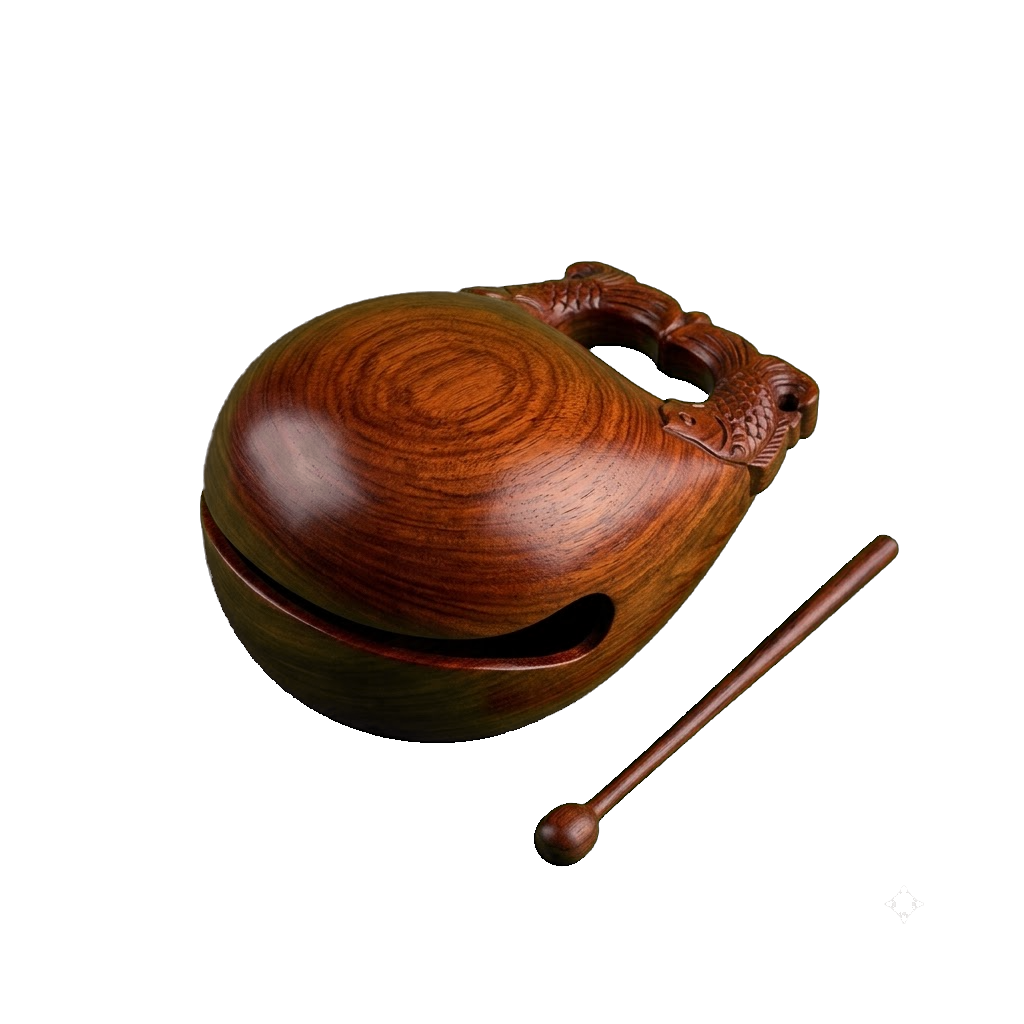
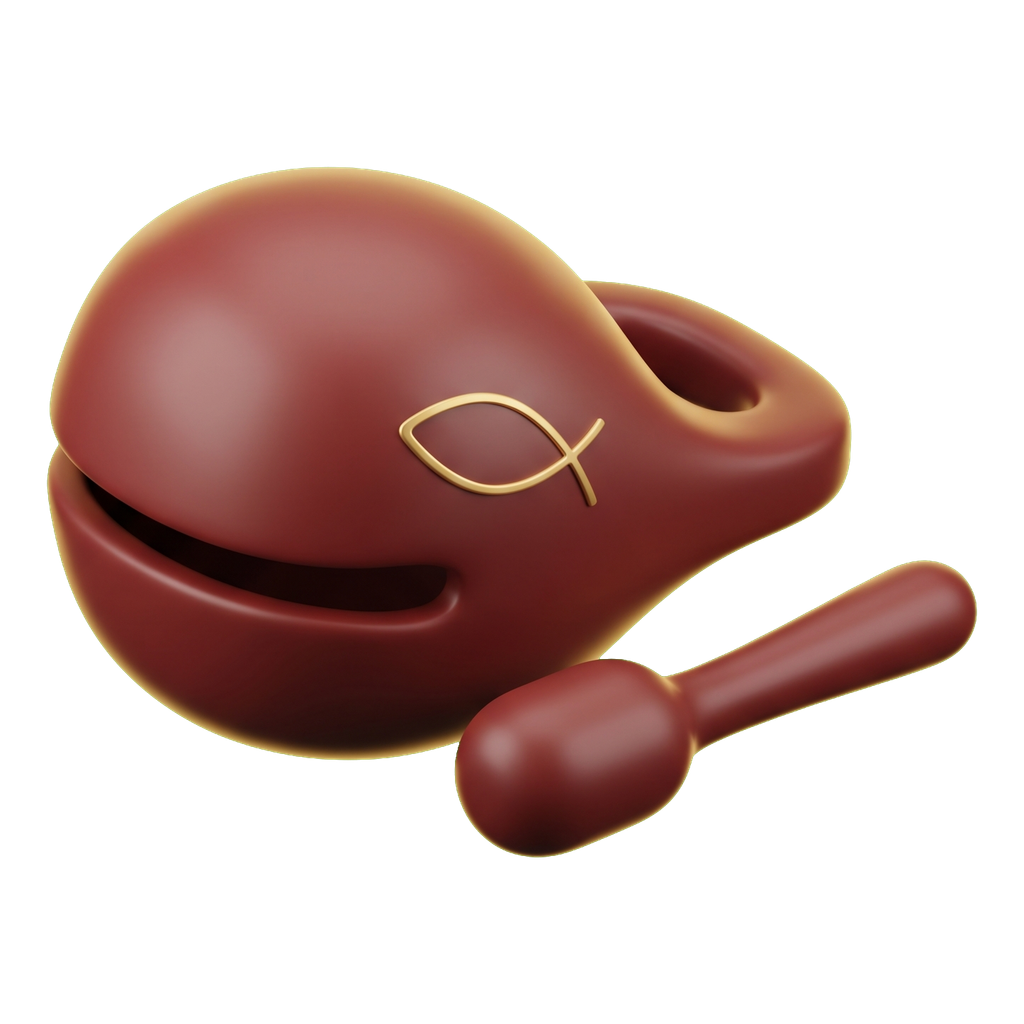
feat: 목탁·염주를 3D 일러스트로, 목탁 소리는 법당처럼 울리게
사진 같은 렌더는 앱 안에서 튄다. 매끈한 3D 클레이 일러스트로 바꿨다.

· 목탁 — 자단 적갈색 클레이 몸통에 금빛 어문(魚文) 한 선, 목탁채까지.
· 염주 — CSS 로 그리던 알 서른여섯을 3D 고리 한 장으로. 넘긴 만큼
  위에서 시계방향으로 금빛이 차오른다(같은 그림에 conic 마스크를
  씌운 금빛 겹). 煩惱卽菩提 라는 설명은 지웠다 — 물드는 걸 보면 안다.

목탁 소리 —
  딱(채가 닿는 순간) + 몸통(피치가 떨어지는 톡) + 속울림 두 겹
  (배음이 어긋난 나무) + 마당 잔향(노이즈로 빚은 임펄스를 컨볼버에).
  0.18초 만에 죽던 소리가 1.5초를 남긴다. 세게 쳐도 찌그러지지 않게
  컴프레서를 하나 물렸다.

곁들여 —
  밤 모드를 서버에서부터 새겨 수화(hydration) 어긋남을 없앴다.
  낮 배경 규칙도 [data-theme="light"] 로 좁혔다.

diff --git a/src/app/moktak/page.tsx b/src/app/moktak/page.tsx
@@ -26,7 +26,6 @@ import { buzz, clickBead, strikeMoktak } from "@/lib/sound";
 const BEADS = 108;
 const RING = 36; // 고리에 걸린 알 수 — 세 바퀴가 곧 백팔
 const STEP = 360 / RING;
-const R = 118;
 const BOX = 316;
 const ARC = 2 * Math.PI * 146; // 바깥 진행 고리 둘레
 // 알이 왼쪽으로 넘어가므로 진행 고리도 왼쪽으로 차오른다 — 반시계로 그린 원
@@ -172,7 +171,12 @@ export default function MoktakPage() {
   const pos = total % BEADS;
   const rounds = Math.floor(total / BEADS);
   const angle = -total * STEP;
-  const topIdx = total % RING; // 지금 위에 올라온 알
+  // 물든 만큼만 금빛 겹을 보여 준다 — 위에서 시계방향으로
+  const f = pos / BEADS;
+  const goldMask =
+    f <= 0
+      ? "linear-gradient(#0000, #0000)"
+      : `conic-gradient(from 0deg at 50% 50%, #000 0turn ${f}turn, #0000 ${f + 0.008}turn 1turn)`;
   const phrases = Math.floor(hits / NAMU.length); // 나무아미타불 몇 편
 
   return (
@@ -299,7 +303,7 @@ export default function MoktakPage() {
                 className="block"
                 style={{ animation: hits > 0 ? "mk-hit 0.16s ease-out" : "none" }}
               >
-                {/* 실물 렌더 — 코드로 깎은 것보다 낫다. 없으면 SVG 로 돌아간다 */}
+                {/* 3D 일러스트 — 코드로 깎은 것보다 낫다. 없으면 SVG 로 돌아간다 */}
                 {/* eslint-disable-next-line @next/next/no-img-element */}
                 <img
                   src="/obj/moktak.png"
@@ -398,7 +402,7 @@ export default function MoktakPage() {
             )}
           </p>
 
-          {/* ── 염주 — 넘긴 알이 금빛 보리로 물든다 ── */}
+          {/* ── 염주 — 넘긴 만큼 줄이 금빛 보리로 물든다 ── */}
           <div className="rise rise-d2 mt-3 flex flex-col items-center">
             <div
               onPointerDown={onPointerDown}
@@ -427,91 +431,52 @@ export default function MoktakPage() {
                 />
               </svg>
 
-              {/* 실 */}
-              <span
-                aria-hidden
-                className="absolute rounded-full border-2 border-[#221912]"
-                style={{
-                  left: BOX / 2 - R,
-                  top: BOX / 2 - R,
-                  width: R * 2,
-                  height: R * 2,
-                  maskImage:
-                    "linear-gradient(to bottom, black 45%, rgba(0,0,0,0.15) 80%, transparent)",
-                  WebkitMaskImage:
-                    "linear-gradient(to bottom, black 45%, rgba(0,0,0,0.15) 80%, transparent)",
-                }}
-              />
+              {/* 염주 — 굴리면 돈다 */}
+              <div className="absolute inset-0 grid place-items-center">
+                {/* eslint-disable-next-line @next/next/no-img-element */}
+                <img
+                  src="/obj/bead.png"
+                  alt=""
+                  aria-hidden
+                  draggable={false}
+                  className="block h-[262px] w-[262px] object-contain"
+                  style={{
+                    transform: `rotate(${angle}deg)`,
+                    transition: "transform 0.16s ease-out",
+                    filter: "drop-shadow(0 10px 26px rgba(0,0,0,0.55))",
+                  }}
+                />
+              </div>
 
-              {/* 고리 */}
+              {/* 물든 만큼 금빛 — 위에서 시계방향으로 차오른다 */}
               <div
-                className="absolute inset-0"
-                style={{
-                  transform: `rotate(${angle}deg)`,
-                  transition: "transform 0.16s ease-out",
-                }}
+                aria-hidden
+                className="pointer-events-none absolute inset-0 grid place-items-center"
+                style={{ maskImage: goldMask, WebkitMaskImage: goldMask }}
               >
-                {Array.from({ length: RING }, (_, k) => {
-                  const mother = k === 0; // 모주
-                  const bodhi = k < topIdx; // 이미 넘긴 알 — 보리로 물들었다
-                  const eff = (((k * STEP + angle) % 360) + 360) % 360;
-                  const fromTop = Math.min(eff, 360 - eff);
-                  const nearTop = Math.max(0, 1 - fromTop / 46);
-                  const vis = Math.max(0, 1 - fromTop / 132);
-                  const size = (mother ? 34 : 26) * (1 + nearTop * 0.32);
-                  return (
-                    <span
-                      key={k}
-                      aria-hidden
-                      className="absolute left-1/2 top-1/2"
-                      style={{ transform: `rotate(${k * STEP}deg) translateY(${-R}px)` }}
-                    >
-                      <span
-                        className="block rounded-full"
-                        style={{
-                          width: size,
-                          height: size,
-                          marginLeft: -size / 2,
-                          marginTop: -size / 2,
-                          transform: `rotate(${-(k * STEP + angle)}deg)`,
-                          transition:
-                            "transform 0.16s ease-out, width 0.16s, height 0.16s, margin 0.16s, background 0.5s ease-out, box-shadow 0.5s",
-                          // 번뇌는 먹빛 자단, 넘긴 알은 금빛 보리
-                          background: mother
-                            ? "radial-gradient(circle at 35% 28%, #f3d98d, #cfa757 42%, #8a662a 78%, #57411a)"
-                            : bodhi
-                              ? "radial-gradient(circle at 35% 28%, #ffe6a0, #dda01c 46%, #9a6c12 82%, #5c400a)"
-                              : "radial-gradient(circle at 35% 28%, #8a5c34, #573620 50%, #33200f 85%, #1d1108)",
-                          // 1px 테두리 — 흰 바탕에서도 알이 또렷하게 선다
-                          boxShadow: bodhi
-                            ? "0 0 0 1px rgba(122,84,10,0.45), 0 4px 12px rgba(221,160,28,0.4), inset 0 -3px 6px rgba(90,60,0,0.4)"
-                            : "0 0 0 1px rgba(30,17,8,0.5), 0 4px 9px rgba(0,0,0,0.5), inset 0 -3px 6px rgba(0,0,0,0.4)",
-                          opacity: vis,
-                        }}
-                      />
-                    </span>
-                  );
-                })}
+                {/* eslint-disable-next-line @next/next/no-img-element */}
+                <img
+                  src="/obj/bead.png"
+                  alt=""
+                  draggable={false}
+                  className="block h-[262px] w-[262px] object-contain"
+                  style={{
+                    transform: `rotate(${angle}deg)`,
+                    transition: "transform 0.16s ease-out",
+                    filter:
+                      "sepia(1) saturate(2.6) hue-rotate(-8deg) brightness(1.32) contrast(1.04) drop-shadow(0 0 16px rgba(217,180,91,0.45))",
+                  }}
+                />
               </div>
 
               {/* 지금 넘기는 자리 */}
               <span
                 aria-hidden
                 className="absolute left-1/2 -translate-x-1/2 text-gold-soft"
-                style={{ top: 16, fontSize: 11, letterSpacing: "0.2em" }}
+                style={{ top: 14, fontSize: 11, letterSpacing: "0.2em" }}
               >
                 ▼
               </span>
-
-              {/* 가운데 — 번뇌즉보리 */}
-              <div className="pointer-events-none absolute inset-0 flex flex-col items-center justify-center">
-                <p className="font-serif text-[15px] tracking-[0.3em] text-gold-soft">
-                  煩惱卽菩提
-                </p>
-                <p className="mt-1.5 break-keep text-center text-[11px] leading-5 text-hanji-faint">
-                  넘긴 알이 금빛으로 물듭니다
-                </p>
-              </div>
             </div>
 
             <p className="mt-3 text-[11.5px] tracking-[0.2em] text-hanji-faint">

diff --git a/src/lib/sound.ts b/src/lib/sound.ts
@@ -36,41 +36,122 @@ function noise(ac: AudioContext): AudioBuffer {
   return noiseBuf;
 }
 
-// 목탁 한 방 — 몸통 울림(사인, 피치 내림) + '딱'(삼각파) + 결(밴드패스 노이즈)
+// 절 마당의 울림 — 목탁 소리 뒤에 남는 꼬리.
+// 노이즈로 임펄스를 빚어 컨볼버에 물린다(음원 파일 없이 만드는 잔향).
+let hallIR: AudioBuffer | null = null;
+let hallNode: ConvolverNode | null = null;
+let hallGain: GainNode | null = null;
+function hall(ac: AudioContext): GainNode {
+  if (!hallNode || !hallGain) {
+    const secs = 1.9;
+    const n = Math.floor(ac.sampleRate * secs);
+    hallIR = ac.createBuffer(2, n, ac.sampleRate);
+    for (let c = 0; c < 2; c++) {
+      const d = hallIR.getChannelData(c);
+      for (let i = 0; i < n; i++) {
+        const decay = Math.pow(1 - i / n, 2.6);
+        d[i] = (Math.random() * 2 - 1) * decay;
+      }
+    }
+    hallNode = ac.createConvolver();
+    hallNode.buffer = hallIR;
+    // 잔향은 어둡게 — 나무 울림이지 유리가 아니다
+    const lp = ac.createBiquadFilter();
+    lp.type = "lowpass";
+    lp.frequency.value = 2100;
+    hallGain = ac.createGain();
+    hallGain.gain.value = 1;
+    hallGain.connect(lp);
+    lp.connect(hallNode);
+    const wet = ac.createGain();
+    wet.gain.value = 0.9;
+    hallNode.connect(wet);
+    wet.connect(ac.destination);
+  }
+  return hallGain;
+}
+
+// 귀가 아프지 않게 — 세게 쳐도 찌그러지지 않도록 한 번 눌러 준다
+let bus: DynamicsCompressorNode | null = null;
+function master(ac: AudioContext): DynamicsCompressorNode {
+  if (!bus) {
+    bus = ac.createDynamicsCompressor();
+    bus.threshold.value = -14;
+    bus.knee.value = 22;
+    bus.ratio.value = 7;
+    bus.attack.value = 0.003;
+    bus.release.value = 0.22;
+    bus.connect(ac.destination);
+  }
+  return bus;
+}
+
+// 목탁 한 방 —
+//   딱(치는 순간) + 몸통(피치 내려가는 톡) + 속울림 두 겹 + 마당 잔향.
+//   작은 나무토막이 아니라 법당에서 울리는 소리라야 한다.
 export function strikeMoktak(vol: number) {
   const ac = audio();
   if (!ac) return;
   const t = ac.currentTime;
-  const out = ac.createGain();
-  out.gain.value = vol;
-  out.connect(ac.destination);
 
-  const base = 540 + Math.random() * 50; // 매 방 미세하게 다른 나무
+  const out = ac.createGain();
+  out.gain.value = vol * 1.75; // 크게 — 울리도록
+  out.connect(master(ac));
+
+  // 잔향으로 보내는 몫
+  const send = ac.createGain();
+  send.gain.value = vol * 0.5;
+  out.connect(send);
+  send.connect(hall(ac));
+
+  const base = 520 + Math.random() * 46; // 매 방 미세하게 다른 나무
+
+  // ── 몸통 — 치는 순간 높다가 뚝 떨어지는 '톡'
   const o1 = ac.createOscillator();
   o1.type = "sine";
-  o1.frequency.setValueAtTime(base, t);
-  o1.frequency.exponentialRampToValueAtTime(base * 0.52, t + 0.1);
+  o1.frequency.setValueAtTime(base * 1.28, t);
+  o1.frequency.exponentialRampToValueAtTime(base * 0.5, t + 0.13);
   const g1 = ac.createGain();
   g1.gain.setValueAtTime(0.0001, t);
-  g1.gain.exponentialRampToValueAtTime(0.85, t + 0.004);
-  g1.gain.exponentialRampToValueAtTime(0.0001, t + 0.18);
+  g1.gain.exponentialRampToValueAtTime(0.9, t + 0.004);
+  g1.gain.exponentialRampToValueAtTime(0.0001, t + 0.55);
   o1.connect(g1);
   g1.connect(out);
   o1.start(t);
-  o1.stop(t + 0.22);
+  o1.stop(t + 0.6);
 
+  // ── 속울림 두 겹 — 나무는 배음이 어긋난다. 길게 남는 건 이쪽.
+  ([
+    [base * 0.44, 0.34, 1.5],
+    [base * 0.67, 0.2, 1.05],
+  ] as const).forEach(([hz, amp, dur], i) => {
+    const o = ac.createOscillator();
+    o.type = i === 0 ? "sine" : "triangle";
+    o.frequency.setValueAtTime(hz * (0.995 + Math.random() * 0.01), t);
+    const g = ac.createGain();
+    g.gain.setValueAtTime(0.0001, t);
+    g.gain.exponentialRampToValueAtTime(amp, t + 0.012);
+    g.gain.exponentialRampToValueAtTime(0.0001, t + dur);
+    o.connect(g);
+    g.connect(out);
+    o.start(t);
+    o.stop(t + dur + 0.05);
+  });
+
+  // ── 딱 — 채가 닿는 순간
   const o2 = ac.createOscillator();
   o2.type = "triangle";
-  o2.frequency.setValueAtTime(1350 + Math.random() * 250, t);
+  o2.frequency.setValueAtTime(1420 + Math.random() * 240, t);
   const g2 = ac.createGain();
   g2.gain.setValueAtTime(0.0001, t);
-  g2.gain.exponentialRampToValueAtTime(0.3, t + 0.002);
-  g2.gain.exponentialRampToValueAtTime(0.0001, t + 0.035);
+  g2.gain.exponentialRampToValueAtTime(0.34, t + 0.002);
+  g2.gain.exponentialRampToValueAtTime(0.0001, t + 0.038);
   o2.connect(g2);
   g2.connect(out);
   o2.start(t);
   o2.stop(t + 0.06);
 
+  // ── 결 — 나무 표면
   const src = ac.createBufferSource();
   src.buffer = noise(ac);
   const bp = ac.createBiquadFilter();
@@ -78,8 +159,8 @@ export function strikeMoktak(vol: number) {
   bp.frequency.value = 950;
   bp.Q.value = 1.1;
   const g3 = ac.createGain();
-  g3.gain.setValueAtTime(0.22, t);
-  g3.gain.exponentialRampToValueAtTime(0.0001, t + 0.05);
+  g3.gain.setValueAtTime(0.26, t);
+  g3.gain.exponentialRampToValueAtTime(0.0001, t + 0.055);
   src.connect(bp);
   bp.connect(g3);
   g3.connect(out);

diff --git a/src/app/layout.tsx b/src/app/layout.tsx
@@ -85,25 +85,20 @@ export const viewport: Viewport = {
   width: "device-width",
   initialScale: 1,
   viewportFit: "cover",
-  themeColor: "#eceef1",
+  themeColor: "#0d0b09",
 };
 
 export default function RootLayout({ children }: LayoutProps<"/">) {
   return (
+    // 낮 모드는 접었다 — 밤 하나로 간다.
+    // 서버에서부터 같은 값을 새겨 첫 그림이 깜빡이지도, 수화(hydration)가
+    // 어긋나지도 않게 한다.
     <html
       lang="ko"
+      data-theme=""
       className={`${serifKR.variable} ${sansKR.variable} h-full antialiased`}
     >
       <body className="flex h-dvh overflow-hidden">
-        {/* 첫 그리기 전에 색상 모드를 새긴다 — 밤/낮이 깜빡이지 않게.
-            기본은 낮(한지). 'dark' 로 저장한 사람만 먹빛으로 연다.
-            열쇠는 lib/theme.ts 의 THEME_KEY 와 같아야 한다. */}
-        <script
-          dangerouslySetInnerHTML={{
-            __html:
-              "try{document.documentElement.dataset.theme=''}catch(e){}",
-          }}
-        />
         <ConfirmProvider>
         {/* 발자국 장부 — 화면에 아무것도 그리지 않고, 다녀간 날만 적는다 */}
         <VisitLedger />

diff --git a/src/app/globals.css b/src/app/globals.css
@@ -25,8 +25,8 @@
 html {
   background: var(--color-ink);
 }
-/* 기본은 낮 — 스크립트가 data-theme 를 새기기 전 한 순간에도 회색 바탕으로 */
-html:not([data-theme="dark"]) {
+/* 낮을 켜 둔 사람만 회색 바탕 — 기본은 먹빛이다 */
+html[data-theme="light"] {
   background: #eceef1;
 }
 
